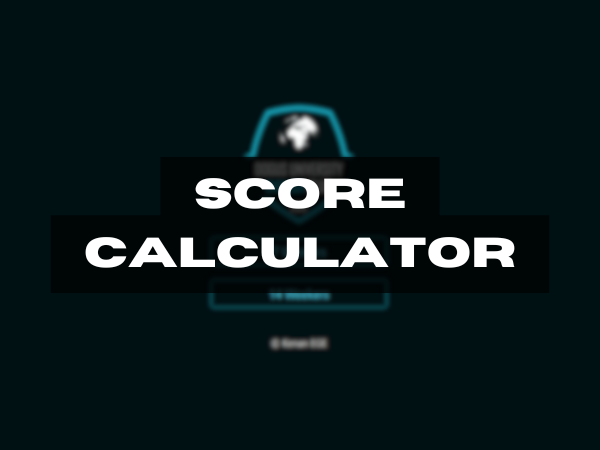
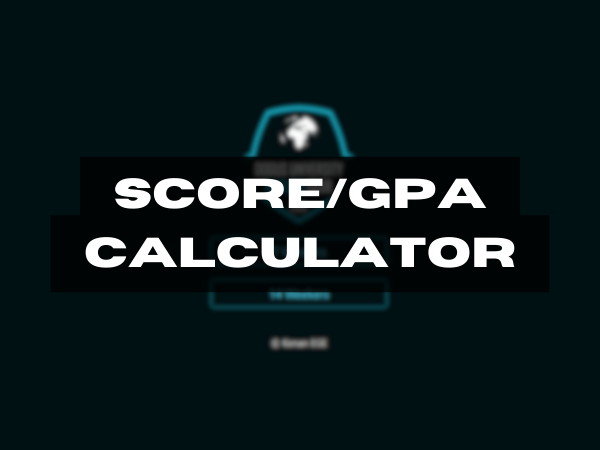
Portfolio updates

Changed region(s): [[0.18, 0.3733, 0.81, 0.4667]]

diff --git a/portfolio.html b/portfolio.html
@@ -561,7 +561,7 @@
 
               <!-- Icon in the Top-Left Corner -->
               <div class="corner-icon">
-                <p style="color: white;">HTML, CSS, JS, Github Actions</p>
+                <p style="color: white;">Github Actions, HTML, CSS, JS</p>
               </div>
 
 
@@ -598,30 +598,6 @@
 
           </a>
         </li>
-        
-
-
-        <!--
-        <li data-value="5" class="project-item  active" data-filter-item data-category="web application">
-          <a href="https://github.com/KenanAegean/Average-Score-Calculator-PHP" target="_blank">
-
-            <figure class="project-img">
-              <div class="project-item-icon-box">
-                <ion-icon name="eye-outline"></ion-icon>
-              </div>
-
-              <img src="./assets/images/Portfolio/score.png" alt="score" loading="lazy">
-            </figure>
-
-            <h3 class="project-title">Score Calculator</h3>
-
-            <p class="project-category">Web Application</p>
-
-          </a>
-        </li>
-        -->
-
-        
 
         <li data-value="5" class="project-item  active" data-filter-item data-category="web application">
           <a href="https://github.com/KenanAegean/Bitmapify-Image-Dithering" target="_blank">
@@ -641,6 +617,30 @@
             </figure>
 
             <h3 class="project-title">Bitmapify - Image Dithering</h3>
+
+            <p class="project-category">Web Application</p>
+
+          </a>
+        </li>
+
+        <li data-value="5" class="project-item  active" data-filter-item data-category="web application">
+          <a href="https://github.com/KenanAegean/Average-Score-Calculator-PHP" target="_blank">
+
+            <figure class="project-img">
+              <div class="project-item-icon-box">
+                <ion-icon name="eye-outline"></ion-icon>
+              </div>
+
+              <!-- Icon in the Top-Left Corner -->
+              <div class="corner-icon">
+                <p style="color: white;">PHP, HTML, CSS</p>
+              </div>
+
+
+              <img src="./assets/images/Portfolio/score.png" alt="score" loading="lazy">
+            </figure>
+
+            <h3 class="project-title">Score/GPA Calculator</h3>
 
             <p class="project-category">Web Application</p>
 
